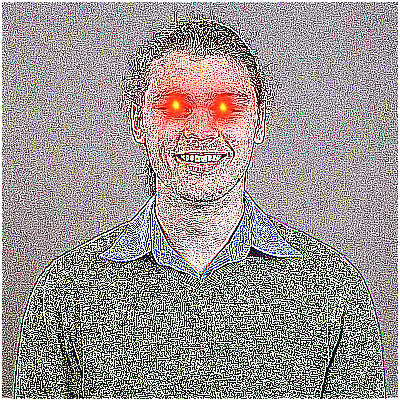
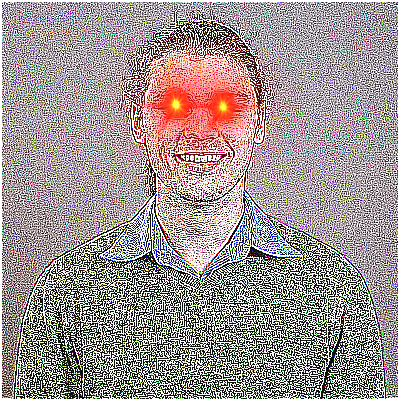
basic distortion in python

Changed region(s): [[0.27, 0.09, 0.69, 0.45]]

diff --git a/src/airHead.py b/src/airHead.py
@@ -1,0 +1,79 @@
+#code from Stack exchange
+#https://stackoverflow.com/questions/5071063/is-there-a-library-for-image-warping-image-morphing-for-python-with-controlled
+
+import numpy as np
+from PIL import Image
+
+def quad_as_rect(quad):
+    if quad[0] != quad[2]: return False
+    if quad[1] != quad[7]: return False
+    if quad[4] != quad[6]: return False
+    if quad[3] != quad[5]: return False
+    return True
+
+def quad_to_rect(quad):
+    assert(len(quad) == 8)
+    assert(quad_as_rect(quad))
+    return (quad[0], quad[1], quad[4], quad[3])
+
+def rect_to_quad(rect):
+    assert(len(rect) == 4)
+    return (rect[0], rect[1], rect[0], rect[3], rect[2], rect[3], rect[2], rect[1])
+
+def shape_to_rect(shape):
+    assert(len(shape) == 2)
+    return (0, 0, shape[0], shape[1])
+
+def griddify(rect, w_div, h_div):
+    w = rect[2] - rect[0]
+    h = rect[3] - rect[1]
+    x_step = w / float(w_div)
+    y_step = h / float(h_div)
+    y = rect[1]
+    grid_vertex_matrix = []
+    for _ in range(h_div + 1):
+        grid_vertex_matrix.append([])
+        x = rect[0]
+        for _ in range(w_div + 1):
+            grid_vertex_matrix[-1].append([int(x), int(y)])
+            x += x_step
+        y += y_step
+    grid = np.array(grid_vertex_matrix)
+    return grid
+
+def distort_grid(org_grid, max_shift):
+    new_grid = np.copy(org_grid)
+    x_min = np.min(new_grid[:, :, 0])
+    y_min = np.min(new_grid[:, :, 1])
+    x_max = np.max(new_grid[:, :, 0])
+    y_max = np.max(new_grid[:, :, 1])
+    new_grid += np.random.randint(- max_shift, max_shift + 1, new_grid.shape)
+    new_grid[:, :, 0] = np.maximum(x_min, new_grid[:, :, 0])
+    new_grid[:, :, 1] = np.maximum(y_min, new_grid[:, :, 1])
+    new_grid[:, :, 0] = np.minimum(x_max, new_grid[:, :, 0])
+    new_grid[:, :, 1] = np.minimum(y_max, new_grid[:, :, 1])
+    return new_grid
+
+def grid_to_mesh(src_grid, dst_grid):
+    assert(src_grid.shape == dst_grid.shape)
+    mesh = []
+    for i in range(src_grid.shape[0] - 1):
+        for j in range(src_grid.shape[1] - 1):
+            src_quad = [src_grid[i    , j    , 0], src_grid[i    , j    , 1],
+                        src_grid[i + 1, j    , 0], src_grid[i + 1, j    , 1],
+                        src_grid[i + 1, j + 1, 0], src_grid[i + 1, j + 1, 1],
+                        src_grid[i    , j + 1, 0], src_grid[i    , j + 1, 1]]
+            dst_quad = [dst_grid[i    , j    , 0], dst_grid[i    , j    , 1],
+                        dst_grid[i + 1, j    , 0], dst_grid[i + 1, j    , 1],
+                        dst_grid[i + 1, j + 1, 0], dst_grid[i + 1, j + 1, 1],
+                        dst_grid[i    , j + 1, 0], dst_grid[i    , j + 1, 1]]
+            dst_rect = quad_to_rect(dst_quad)
+            mesh.append([dst_rect, src_quad])
+    return mesh
+
+im = Image.open('../data/profile.png')
+dst_grid = griddify(shape_to_rect(im.size), 4, 4)
+src_grid = distort_grid(dst_grid, 50)
+mesh = grid_to_mesh(src_grid, dst_grid)
+im = im.transform(im.size, Image.MESH, mesh)
+im.show()

diff --git a/src/FinalPage.java b/src/FinalPage.java
@@ -37,27 +37,25 @@ public class FinalPage extends Page{
     need a method that reads in imageToEdit, changes it, and displays it
   */
 
-  private void rotate() throws Exception{
+  private void airHead() throws Exception{
     BufferedImage toEdit = ImageIO.read(new File(imageToEdit));
 
     AffineTransform rotateCranium = new AffineTransform();
 
-    // for(Integer[] coordinate : this.coordinates){
-    //   rotateCranium.rotate(Math.PI/2, coordinate[]);
-    // }
+
   }
 
-  private BufferedImage lazer(Graphics g, BufferedImage toEdit) throws Exception{
+  private BufferedImage lazer(BufferedImage toEdit) throws Exception{
     BufferedImage lazerEyes = ImageIO.read(new File("../data/lens-flare.png"));
     Graphics gImage = toEdit.createGraphics();
 
 
     for(Integer[] c : coordinates){
       if(c.length == 8){
-        BufferedImage resized = Page.resize(lazerEyes, 120, 120);
-        gImage.drawImage(resized, c[0]+c[2]/2 - 60, c[1]+c[3]/2 - 60, null);
+        BufferedImage resized = Page.resize(lazerEyes, 160, 160);
+        gImage.drawImage(resized, c[0]+c[2]/2 - 80, c[1]+c[3]/2 - 80, null);
 
-        gImage.drawImage(resized, c[4]+c[6]/2 - 60, c[5]+c[7]/2 - 60, null);
+        gImage.drawImage(resized, c[4]+c[6]/2 - 80, c[5]+c[7]/2 - 80, null);
       }
     }
     return toEdit;
@@ -122,25 +120,7 @@ public class FinalPage extends Page{
       @Override
       public void actionPerformed(ActionEvent e) {
 
-        try{
-          BufferedImage profile = ImageIO.read(new File(imageToEdit));
-
-          BufferedImage deepFried = deepFry(profile);
-
-          // BufferedImage superDeepFried = deepFry(deepFried);
-
-          BufferedImage lazed = lazer(g, deepFried);
-
-          RescaleOp rescaleOp = new RescaleOp(1.2f, 15, null);
-
-          rescaleOp.filter(lazed, lazed);
-
-          ImageIO.write(lazed, "png", new File("../data/profileToEdit.png"));
-
-          repaint();
-        }catch(Exception exp){
-          exp.printStackTrace();
-        }
+        System.out.println("clicked!");
       }
     });
 
@@ -165,9 +145,7 @@ public class FinalPage extends Page{
 
           BufferedImage deepFried = deepFry(profile);
 
-          // BufferedImage superDeepFried = deepFry(deepFried);
-
-          BufferedImage lazed = lazer(g, deepFried);
+          BufferedImage lazed = lazer(deepFried);
 
           RescaleOp rescaleOp = new RescaleOp(1.2f, 15, null);
 
@@ -204,7 +182,7 @@ public class FinalPage extends Page{
 
           BufferedImage superDeepFried = deepFry(deepFried);
 
-          BufferedImage lazed = lazer(g, superDeepFried);
+          BufferedImage lazed = lazer(superDeepFried);
 
           RescaleOp rescaleOp = new RescaleOp(1.2f, 15, null);
 

diff --git a/src/ImagePage.java b/src/ImagePage.java
@@ -217,14 +217,15 @@ public class ImagePage extends Page{
 
     g.drawImage(profile, (WIDTH/2-400/2), (HEIGHT/2-400/2) + 40, this);
 
-    if(coordinates.isEmpty()){ //to tell user to reselect if there are no faces
-      Font descriptionFont = new Font("SansSerif", Font.PLAIN, 15);
-      g.setFont(descriptionFont);
-      g.setColor(headerColor);
-      g.drawString("No faces were found",WIDTH/4-170,HEIGHT/2-70);
-      g.drawString("Select another image!",WIDTH/4-170,HEIGHT/2-50);
 
-    }
+      if(coordinates.isEmpty()){ //to tell user to reselect if there are no faces
+        Font descriptionFont = new Font("SansSerif", Font.PLAIN, 15);
+        g.setFont(descriptionFont);
+        g.setColor(headerColor);
+        g.drawString("No faces were found",WIDTH/4-170,HEIGHT/2-80);
+        g.drawString("Select another image!",WIDTH/4-170,HEIGHT/2-60);
+
+      }
 
     if (firstRender == true){
       firstRender = false;

diff --git a/README.md b/README.md
@@ -14,7 +14,9 @@ profile -> *weird* profile
  * Make sure you have Python 3.65
   * *Make sure the python3 command calls the Python 3.65 interpreter*
  * Install OpenCV `pip3 install opencv-python`
+ * Install Python's Pillow library `python3 -m pip install Pillow`
  * Install main and contrib OpenCV modules `pip3 install opencv-contrib-python`
+
 
 
 ## To Run:
